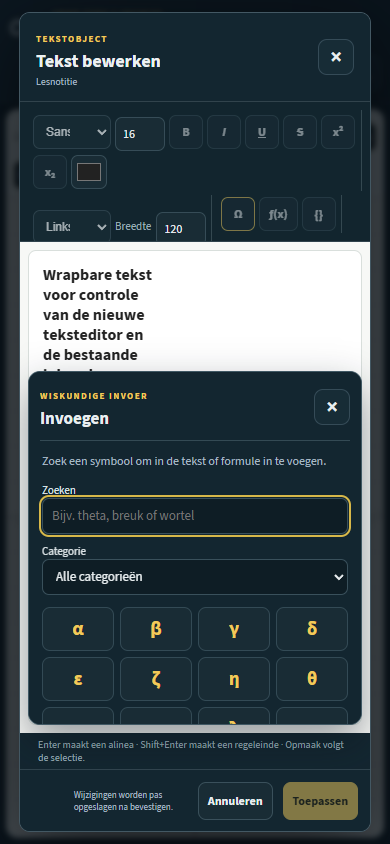
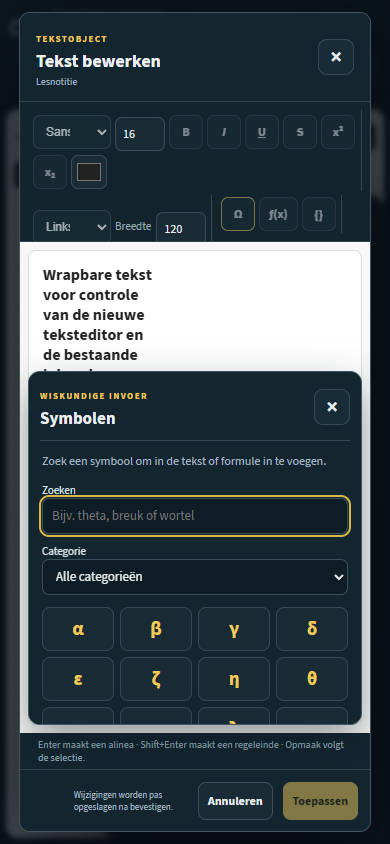
Extract dynamic value editor and finish T5-prep integration

Changed region(s): [[0.2769, 0.2156, 0.9846, 1.0], [0.0923, 0.4929, 0.3077, 0.5237]]

diff --git a/text-insert-panel.js b/text-insert-panel.js
@@ -11,37 +11,28 @@
     const formulaEditor=MI.TextFormulaEditor.mount({source,preview,error,onApply:value=>{try{editor.setEditable(true);MI.TextMathInput.insertFormula(editor,value,bookmark,position);close(false);return true;}catch(e){editor.setEditable(false);error.textContent=e.message;return false;}}});
     function close(restore=true){serial++;formulaEditor.cancel();panel.classList.remove('formula-symbol-picking');panel.hidden=true;editor.setEditable(true);for(const [node,prior] of disabled.splice(0))node.disabled=prior;if(restore&&bookmark)try{editor.restore(bookmark);}catch{}bookmark=null;position=null;if(!dead)editor.focus();}
     async function update(){const request=++serial;apply.disabled=true;error.textContent='';preview.textContent='Formule voorbereiden…';const ready=await formulaEditor.render();if(dead||panel.hidden||request!==serial)return;apply.disabled=!ready;}
-    function showFormula(value,selection=null){panel.dataset.mode='formula';panel.classList.remove('formula-symbol-picking');source.value=value;position=null;const range=selection||MI.TextMathInput.templateSelection(value);source.focus();source.setSelectionRange(range.start,range.end);update();}
-    const vSource=panel.querySelector('#valueSource'),vProperty=panel.querySelector('#valueProperty'),vPrecision=panel.querySelector('#valuePrecision'),vUnit=panel.querySelector('#valueUnit'),vAngle=panel.querySelector('#valueAngle'),vPrefix=panel.querySelector('#valuePrefix'),vSuffix=panel.querySelector('#valueSuffix'),vApply=panel.querySelector('#valueInsert'),vPreview=panel.querySelector('#valuePreview');
-    const labels={name:'Naam',label:'Label',length:'Lengte',radius:'Straal',perimeter:'Omtrek',area:'Oppervlakte',angle:'Hoek',x:'x-coordinaat',y:'y-coordinaat'};
-    const fillOptions=(node,items,value)=>{node.replaceChildren();for(const item of items){const option=document.createElement('option');option.value=item.value;option.textContent=item.label;node.append(option);}node.value=value;if(!node.value&&items.length)node.value=items[0].value;};
-    fillOptions(vUnit,MI.TextValues.units.map(value=>({value,label:{document:'Documentstandaard',none:'Geen eenheidssuffix',u:'Abstract (u)',dimensionless:'Dimensieloos'}[value]||value})),'document');
-    function valueData(){return MI.TextValues.validate({sourceId:vSource.value,property:vProperty.value},{precision:vPrecision.value===''?null:vPrecision.valueAsNumber,unitMode:vUnit.value,angleMode:vAngle.value,prefix:vPrefix.value,suffix:vSuffix.value});}
-    function valuePreview(){if(panel.hidden||panel.dataset.mode!=='value')return;try{const data=valueData(),result=options.resolveValue?.({...data,kind:'dynamicValue'})||{status:'missing',text:'niet beschikbaar'};vPreview.textContent=result.text;vPreview.dataset.valueStatus=result.status;vApply.disabled=result.status==='denied';error.textContent=result.status==='denied'?'Bronwaarde niet toegestaan.':'';}catch(e){vPreview.textContent='niet beschikbaar';vApply.disabled=true;error.textContent=e.message;}}
-    function properties(value){const source=(options.sourceOptions?.()||[]).find(o=>o.id===vSource.value),items=source?.properties|| (value?[value]:[]);fillOptions(vProperty,items.map(value=>({value,label:labels[value]})),value);valuePreview();}
-    function openValue(pos=null){
-      if(!panel.hidden)close();bookmark=editor.bookmark();freeze();panel.hidden=false;panel.dataset.mode='value';error.textContent='';
-      const selected=editor.selectedValue(),node=pos!=null?editor.view.state.doc.nodeAt(pos):null,existing=node?.type.name==='dynamicValue'?node.attrs:selected;
-      position=pos??selected?.position??null;const data=existing||{binding:{},format:{precision:null,unitMode:'document',angleMode:'document',prefix:'',suffix:''}},choices=(options.sourceOptions?.()||[]).map(o=>({value:o.id,label:o.name}));
-      if(data.binding.sourceId&&!choices.some(o=>o.value===data.binding.sourceId))choices.unshift({value:data.binding.sourceId,label:'Bron niet beschikbaar'});
-      fillOptions(vSource,choices,data.binding.sourceId);vPrecision.value=data.format.precision??'';vUnit.value=data.format.unitMode;vAngle.value=data.format.angleMode;vPrefix.value=data.format.prefix;vSuffix.value=data.format.suffix;properties(data.binding.property);vSource.focus();
+    function showFormula(value,selection=null){panel.dataset.mode='formula';panel.classList.remove('formula-symbol-picking');panel.querySelector('#textInsertTitle').textContent='Formule';source.value=value;position=null;const range=selection||MI.TextMathInput.templateSelection(value);source.focus();source.setSelectionRange(range.start,range.end);update();}
+    function beginMode(mode){
+      if(!panel.hidden)close();bookmark=editor.bookmark();freeze();panel.hidden=false;panel.dataset.mode=mode;panel.classList.remove('formula-symbol-picking');error.textContent='';
+      panel.querySelector('#textInsertTitle').textContent={symbols:'Symbolen',formula:'Formule',value:'Dynamische waarde'}[mode]||'Invoegen';
+      return bookmark;
     }
-    on(dialog.querySelector('#richValues'),'click',()=>openValue());on(vSource,'change',()=>properties(vProperty.value));for(const node of [vProperty,vPrecision,vUnit,vAngle,vPrefix,vSuffix])on(node,'input',valuePreview);
-    on(vApply,'click',()=>{try{const data=valueData();editor.setEditable(true);editor.insertValue(data.binding,data.format,bookmark,position);close(false);}catch(e){editor.setEditable(false);error.textContent=e.message;}});editor.setValueEditHandler(pos=>openValue(pos));
+    const valueEditor=MI.TextDynamicValueEditor.mount(panel,editor,options,{begin:beginMode,close,fail:exception=>{error.textContent=exception.message;}});
+    on(dialog.querySelector('#richValues'),'click',()=>valueEditor.open());
     function open(mode,pos=null){
-      if(!panel.hidden)close();bookmark=editor.bookmark();freeze();panel.hidden=false;error.textContent='';
+      beginMode(mode);
       const selected=editor.selectedMath(),node=pos!=null?editor.view.state.doc.nodeAt(pos):null;
-      if(mode==='formula'){panel.dataset.mode='formula';position=pos??selected?.position??null;source.value=node?.attrs.source||selected?.source||'x^2+y^2=r^2';source.focus();update();}
-      else {position=null;panel.dataset.mode='symbols';search.value='';category.value='all';results();search.focus();}
+      if(mode==='formula'){position=pos??selected?.position??null;source.value=node?.attrs.source||selected?.source||'x^2+y^2=r^2';source.focus();source.setSelectionRange(source.value.length,source.value.length);update();}
+      else {position=null;search.value='';category.value='all';results();search.focus();}
     }
     on(dialog.querySelector('#richSymbols'),'click',()=>open('symbols'));on(dialog.querySelector('#richMath'),'click',()=>open('formula'));
     on(panel.querySelector('#formulaSymbols'),'click',()=>{panel.classList.toggle('formula-symbol-picking');search.value='';category.value='all';results();if(panel.classList.contains('formula-symbol-picking'))search.focus();else source.focus();});
     on(panel.querySelector('#textInsertClose'),'click',()=>close());on(search,'input',results);on(category,'change',results);on(source,'input',update);
     on(list,'click',async event=>{const button=event.target.closest('[data-symbol-index]');if(!button)return;const item=currentItems[Number(button.dataset.symbolIndex)];if(panel.dataset.mode==='formula'){const inserted=MI.TextMathInput.insertAtSelection(source.value,item,source.selectionStart,source.selectionEnd);source.value=inserted.value;source.focus();source.setSelectionRange(inserted.selectionStart,inserted.selectionEnd);panel.classList.remove('formula-symbol-picking');update();return;}const request=++serial;try{const result=await MI.TextMathInput.insertSymbol(editor,item,bookmark);if(dead||panel.hidden||request!==serial)return;if(result.mode==='formula'){showFormula(result.source,result.selection);return;}close(false);}catch(e){if(!dead&&request===serial)error.textContent=e.message;}});
     on(apply,'click',()=>{apply.disabled=true;formulaEditor.apply().finally(()=>{if(!dead&&!panel.hidden&&panel.dataset.mode==='formula'&&!error.textContent)apply.disabled=false;});});
-    on(dialog,'keydown',event=>{if(panel.hidden)return;if(event.key==='Escape'){event.preventDefault();event.stopImmediatePropagation();close();}else if(event.key==='Enter'&&event.target===source){event.preventDefault();if(!apply.disabled)apply.click();}else if(event.key==='Enter'&&panel.dataset.mode==='value'&&event.target.tagName==='INPUT'){event.preventDefault();if(!vApply.disabled)vApply.click();}else if(event.key==='Enter'&&event.target===search){event.preventDefault();}},true);
+    on(dialog,'keydown',event=>{if(panel.hidden)return;if(event.key==='Escape'){event.preventDefault();event.stopImmediatePropagation();close();}else if(event.key==='Enter'&&event.target===source){event.preventDefault();if(!apply.disabled)apply.click();}else if(event.key==='Enter'&&panel.dataset.mode==='value'&&event.target.tagName==='INPUT'){event.preventDefault();const valueApply=panel.querySelector('#valueInsert');if(!valueApply.disabled)valueApply.click();}else if(event.key==='Enter'&&event.target===search){event.preventDefault();}},true);
     editor.setMathEditHandler(pos=>open('formula',pos));
-    return {isOpen:()=>!panel.hidden,refresh:valuePreview,destroy(){dead=true;formulaEditor.destroy();close(false);listeners.splice(0).forEach(remove=>remove());}};
+    return {isOpen:()=>!panel.hidden,refresh:valueEditor.refresh,destroy(){dead=true;formulaEditor.destroy();valueEditor.destroy();close(false);listeners.splice(0).forEach(remove=>remove());}};
   }
   MI.TextInsertPanel=Object.freeze({mount,categories:catalog.categories.map(item=>item.label)});
 })(window);

diff --git a/editor.js b/editor.js
@@ -447,7 +447,7 @@
       if (this.colorInput) this.colorInput.remove(); this.colorInput = null;
       this.engine.renderer.preview = null; this.feedback = null;
     }
-    async openRichText(id=null,migrateLegacy=false){const request=++this.textEditorRequest,object=id?this.engine.get(id):null;if(id&&(!object||object.type!=='text'||object.textBinding&&!migrateLegacy||object.construction))return;this.flushEdits();this.textExpectedRevision=this.command('text.commit',{}).expectedDocumentRevision;this.textReturnFocus=this.document.activeElement;this.textEditId=id;this.textMigrateLegacy=migrateLegacy;this.textPermissionEpoch=this.runtime?.permissionEpoch;let initial;try{initial=(migrateLegacy?MI.TextValues.migrate(object):null)||object?.textContent||{schema:1,defaults:{fontId:object?.style?.fontFamily?.includes('Serif')?'serif':'sans',fontSize:object?.style?.fontSize||16,color:object?.style?.fill&&/^#[0-9a-f]{3}([0-9a-f]{3})?$/i.test(object.style.fill)?object.style.fill:'#222222'},width:null,paragraphs:[{id:'p1',align:'left',lineHeight:1.25,runs:object?.text?[{id:'r1',kind:'text',text:object.text,marks:{}}]:[]}]};}catch(error){this.closeText();this.status(error.message);return;}try{const adapter=await MI.RichTextEditor.load();if(MI.MathFragments.has([{textContent:initial}]))await MI.MathFragments.load();if(request!==this.textEditorRequest)return;this.nodes.richWidth.value=initial.width??'';this.nodes.richFont.value=initial.defaults.fontId;this.nodes.richFontSize.value=initial.defaults.fontSize;this.nodes.richColor.value=initial.defaults.color;this.nodes.richAlign.value=initial.paragraphs[0]?.align||'left';this.textInsertPanel?.destroy();this.richTextEditor?.destroy();this.richTextEditor=adapter.mount(this.nodes.richTextSurface,initial,content=>{if(content){this.nodes.richWidth.value=content.width??'';const surface=this.nodes.richTextSurface.querySelector('.ProseMirror');if(surface)surface.style.maxWidth=content.width==null?'none':content.width+'px';}},{resolveValue:run=>this.resolveTextValue(run)});this.textInsertPanel=MI.TextInsertPanel.mount(this.nodes.textDialog,this.richTextEditor,{sourceOptions:()=>this.textSourceOptions(),resolveValue:run=>this.resolveTextValue(run)});if(this.runtime){const target=id?{kind:'existing',id}:{kind:'new',position:{...this.pendingText.point}},payload={target,content:initial,...(migrateLegacy?{migrateLegacy:true}:{})};this.textTransaction=this.runtime.begin(this.command('text.commit',payload));}this.nodes.textDialog.querySelector("#textDialogTitle").textContent=id?"Tekst bewerken":"Tekst toevoegen";this.nodes.textDialog.querySelector("#textDialogContext").textContent=id?(object.name||object.id):"Nieuwe tekst wordt geplaatst op de illustratie.";this.nodes.textDialog.querySelector("#textSubmit").textContent=id?"Toepassen":"Toevoegen";this.nodes.textDialog.showModal();const surface=this.nodes.richTextSurface.querySelector?.('.ProseMirror');if(surface)surface.style.maxWidth=initial.width==null?'none':initial.width+'px';this.richTextEditor.focus();}catch(error){if(request===this.textEditorRequest){this.closeText();this.status(error.code==='MISSING_SOURCE_PERMISSION'?'Deze tekst bevat momenteel niet-toegestane bronvelden.':'Teksteditor kon niet worden geladen.');}}}
+    async openRichText(id=null,migrateLegacy=false){const request=++this.textEditorRequest,object=id?this.engine.get(id):null;if(id&&(!object||object.type!=='text'||object.textBinding&&!migrateLegacy||object.construction))return;this.flushEdits();this.textExpectedRevision=this.command('text.commit',{}).expectedDocumentRevision;this.textReturnFocus=this.document.activeElement;this.textEditId=id;this.textMigrateLegacy=migrateLegacy;this.textPermissionEpoch=this.runtime?.permissionEpoch;let initial;try{initial=(migrateLegacy?MI.TextValues.migrate(object):null)||object?.textContent||{schema:1,defaults:{fontId:object?.style?.fontFamily?.includes('Serif')?'serif':'sans',fontSize:object?.style?.fontSize||16,color:object?.style?.fill&&/^#[0-9a-f]{3}([0-9a-f]{3})?$/i.test(object.style.fill)?object.style.fill:'#222222'},width:null,paragraphs:[{id:'p1',align:'left',lineHeight:1.25,runs:object?.text?[{id:'r1',kind:'text',text:object.text,marks:{}}]:[]}]};}catch(error){this.closeText();this.status(error.message);return;}try{const adapter=await MI.RichTextEditor.load();if(MI.MathFragments.has([{textContent:initial}]))await MI.MathFragments.load();if(request!==this.textEditorRequest)return;this.nodes.richWidth.value=initial.width??'';this.nodes.richFont.value=initial.defaults.fontId;this.nodes.richFontSize.value=initial.defaults.fontSize;this.nodes.richColor.value=initial.defaults.color;this.nodes.richAlign.value=initial.paragraphs[0]?.align||'left';this.textInsertPanel?.destroy();this.richTextEditor?.destroy();this.richTextEditor=adapter.mount(this.nodes.richTextSurface,initial,content=>{if(content){this.nodes.richWidth.value=content.width??'';const surface=this.nodes.richTextSurface.querySelector('.ProseMirror');if(surface)surface.style.maxWidth=content.width==null?'none':content.width+'px';}},{resolveValue:run=>this.resolveTextValue(run)});this.textInsertPanel=MI.TextInsertPanel.mount(this.nodes.textDialog,this.richTextEditor,{sourceOptions:()=>this.textSourceOptions(),resolveValue:run=>this.resolveTextValue(run)});if(this.runtime){const target=id?{kind:'existing',id}:{kind:'new',position:{...this.pendingText.point}},payload={target,content:initial,...(migrateLegacy?{migrateLegacy:true}:{})};this.textTransaction=this.runtime.begin(this.command('text.commit',payload));}this.document.getElementById("textDialogTitle").textContent=id?"Tekst bewerken":"Tekst toevoegen";this.document.getElementById("textDialogContext").textContent=id?(object.name||object.id):"Nieuwe tekst wordt geplaatst op de illustratie.";this.document.getElementById("textSubmit").textContent=id?"Toepassen":"Toevoegen";this.nodes.textDialog.showModal();const surface=this.nodes.richTextSurface.querySelector?.('.ProseMirror');if(surface)surface.style.maxWidth=initial.width==null?'none':initial.width+'px';this.richTextEditor.focus();}catch(error){if(request===this.textEditorRequest){this.closeText();this.status(error.code==='MISSING_SOURCE_PERMISSION'?'Deze tekst bevat momenteel niet-toegestane bronvelden.':'Teksteditor kon niet worden geladen.');}}}
     resolveTextValue(run){return MI.TextValues.resolve(run,new Map(this.engine.model.objects.map(o=>[o.id,o])),this.engine.model.meta,(id,property)=>!this.runtime||this.engine.textSourceAllowed(id,property));}
     textSourceOptions(){return this.engine.model.objects.filter(o=>MI.DynamicText.propertiesFor(o).length).map(o=>({id:o.id,name:o.name||o.id,properties:MI.DynamicText.propertiesFor(o).filter(property=>!this.runtime||this.engine.textSourceAllowed(o.id,property))})).filter(o=>o.properties.length);}
     closeText() { if(this.textTransaction){this.runtime?.cancel(this.textTransaction);this.textTransaction=null;}this.textMigrateLegacy=false;this.textEditorRequest++;this.pendingText = null;this.textInsertPanel?.destroy();this.textInsertPanel=null;this.richTextEditor?.destroy();this.richTextEditor=null;this.textEditId=null;if (this.nodes.textDialog && this.nodes.textDialog.open) this.nodes.textDialog.close();const focus=this.textReturnFocus;this.textReturnFocus=null;if(focus?.isConnected)focus.focus(); this.renderInstructions(); }

diff --git a/editor.html b/editor.html
@@ -5,7 +5,7 @@
   <meta name="viewport" content="width=device-width, initial-scale=1">
   <title>Wiskundige Illustratie-editor — From Zero 2 Infinity</title>
   <link rel="stylesheet" href="https://fonts.googleapis.com/css2?family=Source+Sans+3:wght@400;600;700&display=swap">
-  <link rel="stylesheet" href="editor.css?v=t5-prep-i3">
+  <link rel="stylesheet" href="editor.css?v=t5-prep-i4">
 </head>
 <body>
   <header class="topbar">
@@ -133,7 +133,7 @@
   </dialog>
   <footer>Wiskundige illustratie-editor — fase 1 van de Mathematical Illustration Engine</footer>
   <!-- Release cache token: bump all editor assets together when scripts change. -->
-  <script src="regular-geometry.js?v=text-t4-1"></script><script src="math-source.js?v=text-t4-1"></script><script src="text-values.js?v=text-t4-1"></script><script src="text-dependencies.js?v=text-t4-1"></script><script src="model.js?v=text-t4-1"></script><script src="rich-text-editor-loader.js?v=text-t4-1"></script><script src="font-assets.js?v=text-t4-1"></script><script src="text-fonts.js?v=text-t4-1"></script><script src="persistent-groups.js?v=text-t4-1"></script><script src="document-layers.js?v=text-t4-1"></script><script src="polygon-geometry.js?v=text-t4-1"></script><script src="linear-geometry.js?v=text-t4-1"></script><script src="measurement-geometry.js?v=text-t4-1"></script><script src="construction-service.js?v=text-t4-1"></script><script src="math-fragments.js?v=text-t4-1"></script><script src="text-metrics.js?v=text-t4-1"></script><script src="rich-text-renderer.js?v=text-t4-1"></script><script src="text-math-input.js?v=text-t5-prep-i3"></script><script src="text-formula-editor.js?v=text-t5-prep-i3"></script><script src="text-symbol-catalog.js?v=text-t5-prep-i3"></script><script src="text-insert-panel.js?v=text-t5-prep-i3"></script><script src="renderer.js?v=text-t4-1"></script><script src="index.js?v=text-t4-1"></script><script src="semantic-sequence.js?v=text-t4-1"></script><script src="coordinate-transform.js?v=text-t4-1"></script><script src="snap-service.js?v=text-t4-1"></script><script src="interaction-resolver.js?v=text-t4-1"></script><script src="rectangle-selection.js?v=text-t4-1"></script><script src="text-content-diff.js?v=text-t4-1"></script><script src="permission-runtime.js?v=text-t4-1"></script><script src="editor-startup.js?v=text-t4-1"></script><script src="editor-adaptive-grid.js?v=text-t4-1"></script><script src="editor-label-drag.js?v=text-t4-1"></script><script src="editor-enhancements.js?v=text-t4-1"></script><script src="editor-color.js?v=text-t4-1"></script><script src="editor-axis-settings.js?v=text-t4-1"></script>
-<script src="editor-history.js?v=text-t4-1"></script><script src="editor-tool-instructions.js?v=text-t4-1"></script><script src="export-service.js?v=text-t4-1"></script><script src="editor.js?v=text-t4-1"></script><script src="editor-bootstrap.js?v=text-t4-1"></script>
+  <script src="regular-geometry.js?v=t5-prep-i4"></script><script src="math-source.js?v=t5-prep-i4"></script><script src="text-values.js?v=t5-prep-i4"></script><script src="text-dependencies.js?v=t5-prep-i4"></script><script src="model.js?v=t5-prep-i4"></script><script src="rich-text-editor-loader.js?v=t5-prep-i4"></script><script src="font-assets.js?v=t5-prep-i4"></script><script src="text-fonts.js?v=t5-prep-i4"></script><script src="persistent-groups.js?v=t5-prep-i4"></script><script src="document-layers.js?v=t5-prep-i4"></script><script src="polygon-geometry.js?v=t5-prep-i4"></script><script src="linear-geometry.js?v=t5-prep-i4"></script><script src="measurement-geometry.js?v=t5-prep-i4"></script><script src="construction-service.js?v=t5-prep-i4"></script><script src="math-fragments.js?v=t5-prep-i4"></script><script src="text-metrics.js?v=t5-prep-i4"></script><script src="rich-text-renderer.js?v=t5-prep-i4"></script><script src="text-math-input.js?v=t5-prep-i4"></script><script src="text-formula-editor.js?v=t5-prep-i4"></script><script src="text-dynamic-value-editor.js?v=t5-prep-i4"></script><script src="text-symbol-catalog.js?v=t5-prep-i4"></script><script src="text-insert-panel.js?v=t5-prep-i4"></script><script src="renderer.js?v=t5-prep-i4"></script><script src="index.js?v=t5-prep-i4"></script><script src="semantic-sequence.js?v=t5-prep-i4"></script><script src="coordinate-transform.js?v=t5-prep-i4"></script><script src="snap-service.js?v=t5-prep-i4"></script><script src="interaction-resolver.js?v=t5-prep-i4"></script><script src="rectangle-selection.js?v=t5-prep-i4"></script><script src="text-content-diff.js?v=t5-prep-i4"></script><script src="permission-runtime.js?v=t5-prep-i4"></script><script src="editor-startup.js?v=t5-prep-i4"></script><script src="editor-adaptive-grid.js?v=t5-prep-i4"></script><script src="editor-label-drag.js?v=t5-prep-i4"></script><script src="editor-enhancements.js?v=t5-prep-i4"></script><script src="editor-color.js?v=t5-prep-i4"></script><script src="editor-axis-settings.js?v=t5-prep-i4"></script>
+<script src="editor-history.js?v=t5-prep-i4"></script><script src="editor-tool-instructions.js?v=t5-prep-i4"></script><script src="export-service.js?v=t5-prep-i4"></script><script src="editor.js?v=t5-prep-i4"></script><script src="editor-bootstrap.js?v=t5-prep-i4"></script>
 </body>
 </html>

diff --git a/text-dynamic-value-editor.js b/text-dynamic-value-editor.js
@@ -1,0 +1,39 @@
+(function(global){
+  'use strict';
+  const MI=global.FZI.MathIllustration;
+  const labels={name:'Naam',label:'Label',length:'Lengte',radius:'Straal',perimeter:'Omtrek',area:'Oppervlakte',angle:'Hoek',x:'x-coordinaat',y:'y-coordinaat'};
+  const unitLabels={document:'Documentstandaard',none:'Geen eenheidssuffix',u:'Abstract (u)',dimensionless:'Dimensieloos'};
+  function mount(panel,editor,options,{begin,close,fail}){
+    const sourceSelect=panel.querySelector('#valueSource'),propertySelect=panel.querySelector('#valueProperty'),precision=panel.querySelector('#valuePrecision'),unit=panel.querySelector('#valueUnit'),angle=panel.querySelector('#valueAngle'),prefix=panel.querySelector('#valuePrefix'),suffix=panel.querySelector('#valueSuffix'),apply=panel.querySelector('#valueInsert'),preview=panel.querySelector('#valuePreview'),error=panel.querySelector('#mathError');
+    const listeners=[];let position=null,bookmark=null,destroyed=false;
+    const on=(node,event,handler)=>{node.addEventListener(event,handler);listeners.push(()=>node.removeEventListener(event,handler));};
+    function fillOptions(node,items,value){node.replaceChildren();for(const item of items){const option=document.createElement('option');option.value=item.value;option.textContent=item.label;node.append(option);}node.value=value;if(!node.value&&items.length)node.value=items[0].value;}
+    fillOptions(unit,MI.TextValues.units.map(value=>({value,label:unitLabels[value]||value})),'document');
+    function valueData(){return MI.TextValues.validate({sourceId:sourceSelect.value,property:propertySelect.value},{precision:precision.value===''?null:precision.valueAsNumber,unitMode:unit.value,angleMode:angle.value,prefix:prefix.value,suffix:suffix.value});}
+    function refresh(){
+      if(destroyed||panel.hidden||panel.dataset.mode!=='value')return;
+      try{
+        const data=valueData(),result=options.resolveValue?.({...data,kind:'dynamicValue'})||{status:'missing',text:'niet beschikbaar'};
+        preview.textContent=result.text;preview.dataset.valueStatus=result.status;apply.disabled=result.status==='denied';error.textContent=result.status==='denied'?'Bronwaarde niet toegestaan.':'';
+      }catch(exception){preview.textContent='niet beschikbaar';preview.dataset.valueStatus='invalid';apply.disabled=true;error.textContent=exception.message;}
+    }
+    function setProperties(value){
+      const source=(options.sourceOptions?.()||[]).find(item=>item.id===sourceSelect.value),properties=source?.properties||(value?[value]:[]);
+      fillOptions(propertySelect,properties.map(property=>({value:property,label:labels[property]||property})),value);refresh();
+    }
+    function open(nextPosition=null){
+      bookmark=begin('value');
+      const selected=editor.selectedValue(),node=nextPosition!=null?editor.view.state.doc.nodeAt(nextPosition):null,existing=node?.type.name==='dynamicValue'?node.attrs:selected;
+      position=nextPosition??selected?.position??null;
+      const data=existing||{binding:{},format:{precision:null,unitMode:'document',angleMode:'document',prefix:'',suffix:''}},choices=(options.sourceOptions?.()||[]).map(item=>({value:item.id,label:item.name}));
+      if(data.binding.sourceId&&!choices.some(item=>item.value===data.binding.sourceId))choices.unshift({value:data.binding.sourceId,label:'Bron niet beschikbaar'});
+      fillOptions(sourceSelect,choices,data.binding.sourceId);precision.value=data.format.precision??'';unit.value=data.format.unitMode;angle.value=data.format.angleMode;prefix.value=data.format.prefix;suffix.value=data.format.suffix;setProperties(data.binding.property);sourceSelect.focus();
+    }
+    on(sourceSelect,'change',()=>setProperties(propertySelect.value));
+    for(const node of [propertySelect,precision,unit,angle,prefix,suffix])on(node,'input',refresh);
+    on(apply,'click',()=>{try{const data=valueData();editor.setEditable(true);editor.insertValue(data.binding,data.format,bookmark,position);close(false);}catch(exception){editor.setEditable(false);fail(exception);}});
+    editor.setValueEditHandler(open);
+    return Object.freeze({open,refresh,destroy(){destroyed=true;listeners.splice(0).forEach(remove=>remove());editor.setValueEditHandler(null);}});
+  }
+  MI.TextDynamicValueEditor=Object.freeze({mount});
+})(window);

diff --git a/text-symbol-catalog.js b/text-symbol-catalog.js
@@ -25,7 +25,7 @@
   for(const [id,glyph,label,latex,keywords] of [
     ['plus','+','plus',null,['optellen']],['minus','−','min',null,['aftrekken']],['plus-minus','±','plus of min','\\pm',['plus minus']],['times','×','maal','\\times',['keer','product']],['divide','÷','delen','\\div',['deling']],['cdot','·','product','\\cdot',['maal']],
     ['equals','=','gelijk',null,['is gelijk']],['not-equal','≠','niet gelijk','\\ne',['ongelijk']],['approx','≈','ongeveer','\\approx',['benadering']],['less-than','<','kleiner dan',null,['kleiner']],['greater-than','>','groter dan',null,['groter']],['less-equal','≤','kleiner of gelijk','\\leq',['kleiner gelijk']],['greater-equal','≥','groter of gelijk','\\geq',['groter gelijk']],['equiv','≡','equivalent','\\equiv',['identiek']],
-    ['element','∈','element van','\\in',['behoort']],['not-element','∉','geen element','\\notin',['behoort niet']],['subset','⊂','deelverzameling','\\subset',['subset']],['subset-equal','⊆','deelverzameling of gelijk','\\subseteq',['subset gelijk']],['union','∪','unie','\\cup',['samenvoeging']],['intersection','∩','doorsnede','\\cap',['snijverzameling']],['empty-set','∅','lege verzameling','\\emptyset',['leeg']],['natural-numbers','ℕ','natuurlijke getallen','\\mathbb{N}',['natuurlijke']],['integers','ℤ','gehele getallen','\\mathbb{Z}',['integer']],['rationals','ℚ','rationale getallen','\\mathbb{Q}',['rationaal']],['reals','ℝ','reële getallen','\\mathbb{R}',['reëel','reals']],
+    ['element','∈','element','\\in',['element van','behoort','verzameling']],['not-element','∉','geen element','\\notin',['behoort niet']],['subset','⊂','deelverzameling','\\subset',['subset']],['subset-equal','⊆','deelverzameling of gelijk','\\subseteq',['subset gelijk']],['union','∪','unie','\\cup',['samenvoeging']],['intersection','∩','doorsnede','\\cap',['snijverzameling']],['empty-set','∅','lege verzameling','\\emptyset',['leeg']],['natural-numbers','ℕ','natuurlijke getallen','\\mathbb{N}',['natuurlijke']],['integers','ℤ','gehele getallen','\\mathbb{Z}',['integer']],['rationals','ℚ','rationale getallen','\\mathbb{Q}',['rationaal']],['reals','ℝ','reële getallen','\\mathbb{R}',['reëel','reals']],
     ['angle','∠','hoek','\\angle',['meetkunde']],['triangle','△','driehoek','\\triangle',['meetkunde']],['parallel','∥','evenwijdig','\\parallel',['parallel']],['perpendicular','⊥','loodrecht','\\perp',['perpendiculair']],['degree','°','graden','\\degree',['hoek']],
     ['right-arrow','→','naar rechts','\\rightarrow',['pijl','vector']],['left-arrow','←','naar links','\\leftarrow',['pijl']],['both-arrows','↔','beide richtingen','\\leftrightarrow',['pijl']],['implies','⇒','impliceert','\\Rightarrow',['implicatie']],['iff','⇔','dan en slechts dan','\\Leftrightarrow',['equivalentie']],['mapsto','↦','afbeelding','\\mapsto',['toewijzing']],
     ['forall','∀','voor alle','\\forall',['logica','iedere']],['exists','∃','er bestaat','\\exists',['logica','bestaat']],['not','¬','niet','\\neg',['logica']],['and','∧','en','\\land',['logica']],['or','∨','of','\\lor',['logica']],
